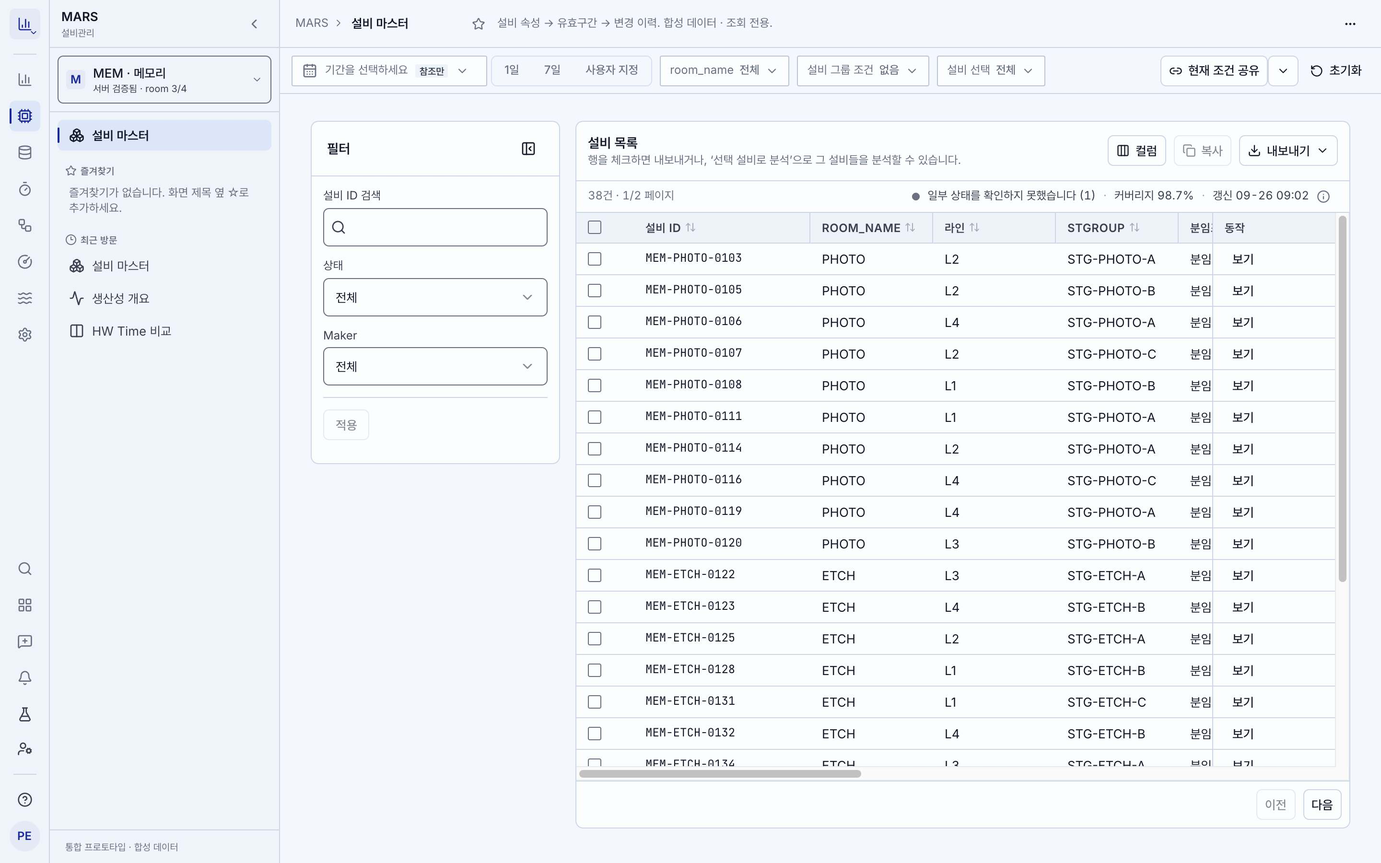
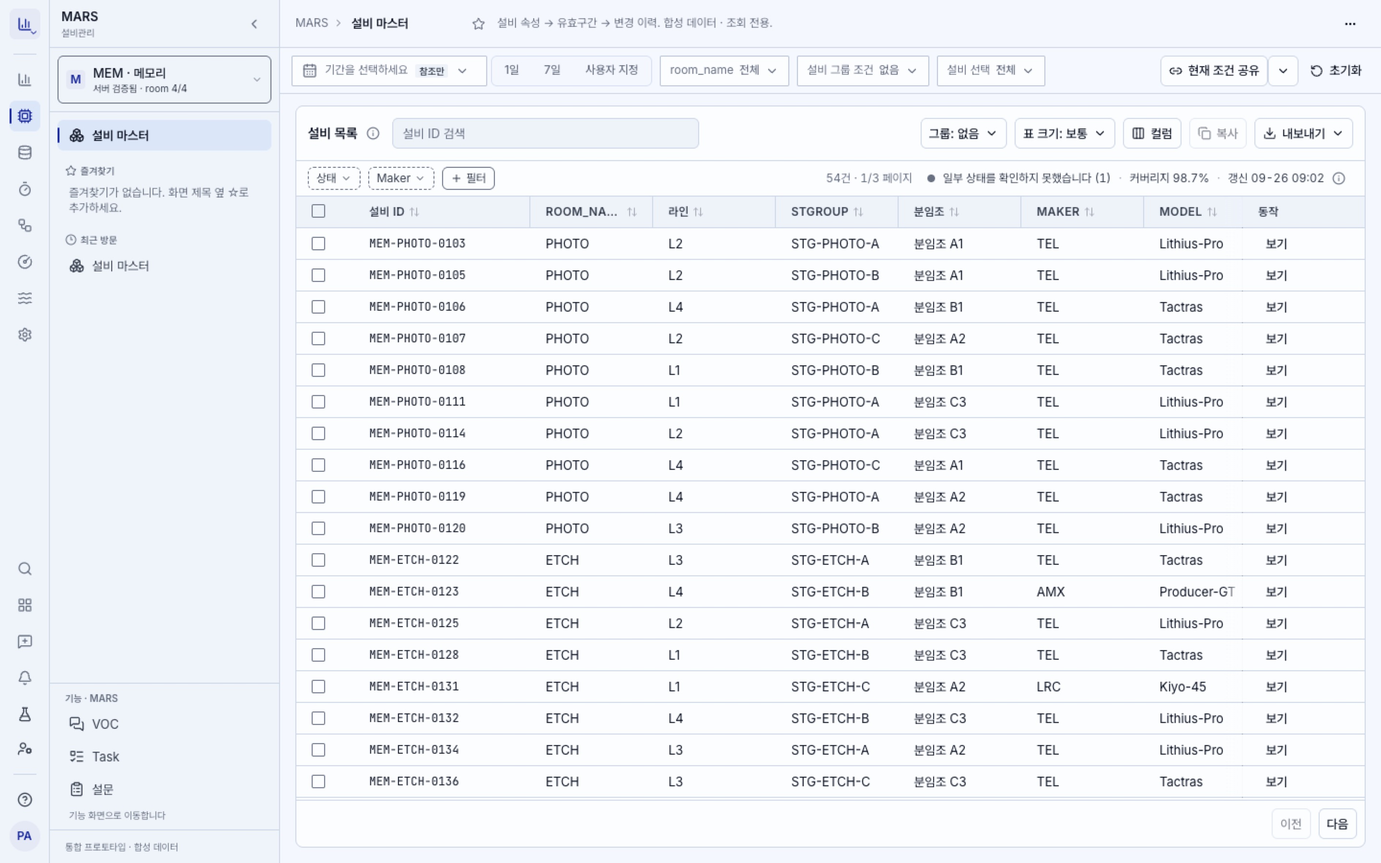
chore(release): prepare v0.22.0 and sdk-v0.26.0 (#1236)
* chore(release): prepare v0.22.0 and sdk-v0.26.0

Claude-Session: https://claude.ai/code/session_01HJStpnGJRqw2uwwzWGGT6d

* docs(site): 관리 화면 설명을 레일 없는 구조로, 최신 버전 v0.22.0·sdk-v0.26.0 (doc audit D3)

Claude-Session: https://claude.ai/code/session_01HJStpnGJRqw2uwwzWGGT6d

* docs(release): 보드 진입 링크를 v0.22.0·sdk-v0.26.0으로 (doc audit D5)

Claude-Session: https://claude.ai/code/session_01HJStpnGJRqw2uwwzWGGT6d

* docs(site): L17 금지 용어 '레일' → '왼쪽 필터 칸'

Claude-Session: https://claude.ai/code/session_01HJStpnGJRqw2uwwzWGGT6d

---------

diff --git a/site/index.html b/site/index.html
@@ -242,7 +242,7 @@
     <h3>페이지 유형 · 같은 틀, 다른 메뉴</h3>
     <div class="tile-row">
       <figure class="shot-figure"><span class="shot-frame"><button type="button" class="shot-zoom" data-shot-open="assets/layouts/layouts-overview.jpg" aria-haspopup="dialog" aria-label="Overview 유형 생산성 개요 크게 보기"><img src="assets/layouts/layouts-overview.jpg" loading="lazy" width="2880" height="1800" alt="MARS 생산성 개요. 조건 바 아래 네 지표 요약 카드와 Job 처리량 추세 막대 차트가 있습니다."></button></span><figcaption><b>Overview</b> · MARS 생산성 개요 · 지표 요약과 추세</figcaption></figure>
-      <figure class="shot-figure"><span class="shot-frame"><button type="button" class="shot-zoom" data-shot-open="assets/layouts/layouts-management.jpg" aria-haspopup="dialog" aria-label="Management 유형 설비 마스터 크게 보기"><img src="assets/layouts/layouts-management.jpg" loading="lazy" width="2880" height="1800" alt="MARS 설비 마스터. 왼쪽 필터 열과 오른쪽 설비 목록 표가 나란히 있습니다."></button></span><figcaption><b>Management</b> · MARS 설비 마스터 · 필터 열과 목록</figcaption></figure>
+      <figure class="shot-figure"><span class="shot-frame"><button type="button" class="shot-zoom" data-shot-open="assets/layouts/layouts-management.jpg" aria-haspopup="dialog" aria-label="Management 유형 설비 마스터 크게 보기"><img src="assets/layouts/layouts-management.jpg" loading="lazy" width="2880" height="1800" alt="MARS 설비 마스터. 표 위에 검색과 필터 조건, 아래에 설비 목록이 있습니다."></button></span><figcaption><b>Management</b> · MARS 설비 마스터 · 필터와 목록</figcaption></figure>
       <figure class="shot-figure"><span class="shot-frame"><button type="button" class="shot-zoom" data-shot-open="assets/layouts/layouts-catalog.jpg" aria-haspopup="dialog" aria-label="Catalog 유형 지표 카탈로그 크게 보기"><img src="assets/layouts/layouts-catalog.jpg" loading="lazy" width="2880" height="1800" alt="BRAVO 지표 카탈로그. 페이지 필터 아래 지표 이름·도메인·grain 목록 표가 있습니다."></button></span><figcaption><b>Catalog</b> · BRAVO 지표 카탈로그 · 페이지 필터와 목록</figcaption></figure>
     </div>
     <p class="cap-line">페이지 유형 5종 · Analysis Workspace는 위 HW Time 비교 · Workflow는 공통 부품 조립 · 전용 레이아웃 부품은 Management·Analysis 2종 · <a class="source-ref" href="#source-L19">L19</a> · <a class="source-ref" href="#source-L17">L17</a> · <a class="source-ref" href="#source-L148">L148</a></p>
@@ -863,7 +863,7 @@
               <h3>화면 유형 다섯 가지로 시작합니다.</h3>
               <p>
                 Overview·Analysis Workspace·Management·Catalog·Workflow. manifest의 화면 유형이 생성기 뼈대를 정하고,
-                관리 화면(필터 열 + 표)과 분석 화면(KPI 띠·차트 2열·분해 표)은 공통 레이아웃 컴포넌트로, 드릴다운은
+                관리 화면(툴바 한 줄 + 필터·결과 줄 + 표)과 분석 화면(KPI 띠·차트 2열·분해 표)은 공통 레이아웃 컴포넌트로, 드릴다운은
                 DrillLayout으로 제공합니다. 셸은 시스템 레일 52px·사이드바 240px·머리 50px입니다.
               </p>
               <p>이 화면에서: 시스템 레일·사이드바·머리 + KPI 카드·차트·분해 표 자리</p>
@@ -1293,13 +1293,14 @@
                 >
                   <span class="preview" aria-hidden="true"
                     ><span class="preview-div wire-management"
-                      ><span class="preview-div">260px 필터</span><span class="preview-div">표</span
+                      ><span class="preview-div">툴바</span><span class="preview-div">필터·결과 줄</span
+                      ><span class="preview-div">표</span
                       ><span class="preview-div">상세</span></span
                     ></span
                   ><span class="card-name"><code>ManagementLayout</code> <span class="more">+1</span></span
                   ><span class="caption">@ap/components</span
                   ><span class="card-gain"
-                    >자기 폭 960px 이상이면 필터 열, 좁으면 팝오버, 접힘 기억·포커스 이동</span
+                    >표 위 툴바 한 줄(제목·검색·표 컨트롤)과 필터·결과 줄 하나, 상세 슬롯</span
                   ></button
                 ><button
                   type="button"
@@ -1789,7 +1790,7 @@
             </article>
             <article id="detail-C12" class="component-detail" data-detail="C12">
               <h3 tabindex="-1"><code>ManagementLayout</code> · <code>ManagementLayoutProps</code></h3>
-              <p><b>받는 것</b> 자기 폭 960px 이상이면 필터 열 · 좁으면 팝오버 · 접힘 기억·포커스 이동</p>
+              <p><b>받는 것</b> 표 위 툴바 한 줄(제목·검색·표 컨트롤) · 필터·결과 줄 하나 · 상세 슬롯</p>
               <p><b>화면이 할 일</b> 슬롯 내용</p>
               <p class="caption">
                 원본:
@@ -3237,9 +3238,9 @@ export type ModuleHost = {
           <summary>콘텐츠 원장 L01–L149</summary>
           <div id="source-L01">
             <h3>L01</h3>
-            <a href="https://github.com/hjung3113/analytics-platform/blob/main/.planning/README.md">공개 원본 보기</a>
-            <p>최신 앱 릴리스 v0.15.0(2026-10-21), 최신 SDK 릴리스 sdk-v0.12.0(2026-10-23), .planning/README.md와 GitHub Release 기준</p>
-            <p class="caption"><code>.planning/README.md</code> 「끝난 것」, GitHub Release <code>sdk-v0.12.0</code> · 2026-10-23 최신 릴리스로 갱신</p>
+            <a href="https://github.com/hjung3113/analytics-platform/releases/tag/v0.22.0">공개 원본 보기</a>
+            <p>최신 앱 릴리스 v0.22.0(2026-11-01), 최신 SDK 릴리스 sdk-v0.26.0(2026-11-01), .planning/README.md와 GitHub Release 기준. SDK 릴리스: <a href="https://github.com/hjung3113/analytics-platform/releases/tag/sdk-v0.26.0">sdk-v0.26.0</a></p>
+            <p class="caption"><code>.planning/README.md</code> 「끝난 것」, GitHub Release <code>v0.22.0</code>·<code>sdk-v0.26.0</code> · 2026-11-01 최신 릴리스로 갱신</p>
           </div>
           <div id="source-L02">
             <h3>L02</h3>
@@ -3247,7 +3248,7 @@ export type ModuleHost = {
               >공개 원본 보기</a
             >
             <p>
-              <code>@ap/components</code> 기본 진입점의 공개 React 컴포넌트 29개(<code>sdk-v0.12.0</code> 기준, 2026-10-23 갱신; PanelWorkspace 추가, 도킹 진입점 <code>@ap/components/dock</code>에 DockLayout·WorkspaceCommandsHost 2개는 L136): AnalysisChart, AnalysisChartFrame, EChart, PlatformDataTable, PageFilterBar, SegmentedRadio, DetailDrawer, Field, AuditTimeline, DataTrustIndicator, PlatformPage, Panel, StatCard, QueryView, OutcomeView, StateMessage, LoadingBlock, ManagementLayout, AnalysisLayout, DrillLayout, DrillPath, ReturnLink, RowAction, TableUrlWarning, FilterUrlWarning, LegendTree, LaneTimeline, QueryBarExtensionsProvider, PanelWorkspace
+              <code>@ap/components</code> 기본 진입점의 공개 React 컴포넌트 28개(<code>sdk-v0.12.0</code> 기준, 2026-10-23 갱신; PanelWorkspace 추가, 2026-11-01 <code>sdk-v0.26.0</code>에서 FilterUrlWarning 제거, 도킹 진입점 <code>@ap/components/dock</code>에 DockLayout·WorkspaceCommandsHost 2개는 L136): AnalysisChart, AnalysisChartFrame, EChart, PlatformDataTable, PageFilterBar, SegmentedRadio, DetailDrawer, Field, AuditTimeline, DataTrustIndicator, PlatformPage, Panel, StatCard, QueryView, OutcomeView, StateMessage, LoadingBlock, ManagementLayout, AnalysisLayout, DrillLayout, DrillPath, ReturnLink, RowAction, TableUrlWarning, LegendTree, LaneTimeline, QueryBarExtensionsProvider, PanelWorkspace
             </p>
             <p class="caption">
               <code>packages/sdk/components/src/index.ts</code> + 각 파일의 <code>export function [A-Z]…</code>(D1이 셈) ·
@@ -3426,10 +3427,11 @@ export type ModuleHost = {
               >공개 원본 보기</a
             >
             <p>
-              ManagementLayout: 자기 폭 960px 이상 260px 필터 열, 좁으면 팝오버. AnalysisLayout: KPI 띠·차트(960px
-              이상·펼친 차트 2개 이상이면 2열)·분해 표, 단위별 접기
+              ManagementLayout: 왼쪽 필터 칸 없이 표 툴바 한 줄(제목·검색·표 컨트롤)과 그 아래 필터 줄 하나(2026-11-01,
+              sdk-v0.26.0, ADR-0105). AnalysisLayout: KPI 띠·차트(960px 이상·펼친 차트 2개 이상이면 2열)·분해 표,
+              단위별 접기
             </p>
-            <p class="caption">플랫폼 UI 계약 §12.6, ADR-0022 · —</p>
+            <p class="caption">플랫폼 UI 계약 §12.6, ADR-0022·ADR-0105 · —</p>
           </div>
           <div id="source-L18">
             <h3>L18</h3>

diff --git a/tooling/gen-menu/src/generate.test.ts b/tooling/gen-menu/src/generate.test.ts
@@ -355,7 +355,7 @@ it('generates version metadata and a matching changelog', () => {
   const files = renderFiles(INPUTS, '2026-01-02');
   const pkg = JSON.parse(files.find(f => f.relPath === 'package.json')!.content) as { version: string; ap: { sdk: string } };
   expect(pkg.version).toBe('0.1.0');
-  expect(pkg.ap.sdk).toBe('>=0.25.0 <0.26.0');
+  expect(pkg.ap.sdk).toBe('>=0.26.0 <0.27.0');
   expect(files.find(f => f.relPath === 'CHANGELOG.md')?.content).toMatch(/^# @ap\/menu-gen-probe 변경 기록[\s\S]*^## 0\.1\.0 — 2026-01-02$/m);
 });
 

diff --git a/tooling/gen-menu/src/templates.ts b/tooling/gen-menu/src/templates.ts
@@ -27,7 +27,7 @@ export type MenuInputs = {
  * it, because the server re-validates data permission per request (#47). Kept in one place so the
  * two never drift apart.
  */
-export const SDK_RANGE = '>=0.25.0 <0.26.0';
+export const SDK_RANGE = '>=0.26.0 <0.27.0';
 
 export const SCAFFOLD_PERMISSION = 'platform:view';
 

diff --git a/docs/integration/sdk-git-tag-consumption.md b/docs/integration/sdk-git-tag-consumption.md
@@ -29,10 +29,10 @@
 
 | 버전 | 패키지 | 바뀐 공개 API | 이전 방법 |
 | --- | --- | --- | --- |
-| `sdk-v0.26.0` (다음 릴리스, #556b) | contracts, components | Additive: `ColumnFilterSpec`, `ColumnFilter`, `TableQuery` (`PageQuery & { filters?: ColumnFilter[] }`) and pure `filterRows(rows, filters, accessor?)` (`@ap/contracts`); `PlatformColumn.filter?: ColumnFilterSpec`, `loadPage` typed `(query: TableQuery, signal)` and an optional top-level `filters?: ColumnFilter[]` on the `exportRows` request (`@ap/components`); snapshots `contracts.root.api.txt`, `components.root.api.txt`. `PageQuery` is unchanged and `filters` is sent only when a column filter is active. #556c adds (`@ap/components`): `TableExportRequest` (the `exportRows` request, now with a third scope `{ kind: 'all'; excludedIds }`), `TableSelection` (`{ kind: 'ids'; ids } \| { kind: 'all'; excludedIds; total }`), `exportScopeIds(scope)`, and the optional props `selectAllResults?: boolean` and `bulkSelectionActions?: (selection: TableSelection) => ReactNode` on `PlatformDataTable`. #556d adds: `TableQuery.groupBy?: string` (one level), `PageGroup` (`{ key; label; count; subtotals?; continued? }`), `GroupedPageResult<T>` (`PageResult<T> & { groups?: PageGroup[] }`), `EMPTY_GROUP_LABEL` and pure `groupPage(rows, { groupBy, sorting, subtotalColumns, accessor, page, pageSize })` (`@ap/contracts`); `PlatformColumn.groupable?` / `subtotal?` and `loadPage` typed to return `GroupedPageResult<T>` (`@ap/components`; `GroupedPageResult`·`PageGroup` re-exported); snapshots as above. `PageResult` is unchanged and `groupBy` is sent only when a group is chosen. | None. Existing `PageQuery` loaders and tables without `filter` keep compiling and rendering. To opt in: declare `filter` on columns, add `filters` to the endpoint params and `paramKeys`, and apply the filters on the server (`filterRows` for mocks). **Type widening:** `exportRows` is now typed `(request: TableExportRequest, signal)`; a consumer that typed its callback with the old inline request type (`scope: { kind: 'selected' } \| { kind: 'filtered' }`) must switch to `TableExportRequest` and read the scope with `exportScopeIds` (handle or refuse `all-except`). Tables that do not set `selectAllResults` never receive the `all` scope. Tables with no `groupable` column never send `groupBy`, and a response without `groups` renders flat. To opt in to groups: declare `groupable` (and `subtotal` for `sum` columns), add `groupBy` to the page endpoint's params and `paramKeys`, and answer rows ordered by group plus whole-result `groups` (`groupPage` for mocks); export stays flat. |
-| `sdk-v0.26.0` (다음 릴리스, #1217 노드 a1–e2) | contracts, kernel, components, ui | Additive (opt-in; unused = unchanged behaviour): `@ap/contracts` column-filter vocabulary (`ColumnFilter`/`ColumnFilterOp`/`ColumnFilterSpec` operator union growth, `TEXT_OPS`…`INSTANT_OPS`, `FILTER_OPS_BY_KIND`, `FilterRowsOptions`, `FilterValidation`, `validateFilters`, `betweenOrdered`), URL codec (`encodeFilterParam(s)`, `parseFilterParams`, `filterParamLimit`, `FILTER_PARAM_LIMITS`, `FilterParamRejection`, `FilterParamsResult`), `parseQuery(…, options?: { repeated })`, `MenuMeta.repeatedPageKeys`/`hiddenPageKeys` (`ModuleHost` follows), `isIsoInstant`; `@ap/kernel` `PlatformLocation.push/replace(…, state?)` and optional `readState`, `HostPlatform.appliedUrl`, `MenuPlatform.pageParams`, `LinkOptions.page` values may be `readonly string[]`, `withPaneContext` also reads `repeatedPageKeys`; `@ap/components` `TableFilterOption`, `TableFilterField`, `TableFilterProblem`, `TableFilterRead`, `LegacyFilterKey`, `FilterValueCheck`, `InstantEntry`, `LocalFieldFailure`/`LocalFieldResult`, `instantToLocalField`/`localFieldToInstant`, `FILTER_OP_LABELS`, `TableUrlWarningCause`, `TableUrlState.filters`/`validate`, `useTableUrlState(…, { filters })`, `useTableUrlWarning(…, filters)` (new return fields `cause`, `filterRead`, `recoverKeys`), `TableUrlWarning` props `recoverKeys` and `cause`, `PlatformColumn.filter`/`filterEntry`/`filterLabel`/`filterPinned` (`boolean \| number`), `PlatformDataTableProps.filterFields`/`filterKey` optional (default `''`); `@ap/ui` `InputProps.inputSize` (`'default' \| 'toolbar'`), `TooltipContentProps.portal`. **Type widening**: `ColumnFilter` and `ColumnFilterOp` grew, so a consumer that handled `op` with an exhaustive `switch` must handle or reject the new operators; a host that implements `PlatformLocation` itself still compiles when it ignores `state`, but hidden page state is then not restored. Snapshots `contracts.root`, `kernel.root`, `kernel.host`, `components.root`, `ui.root`. | none needed for unused opt-ins. Exhaustive `op` switches: add the new cases or a default. Own `PlatformLocation`: store `state` in `push`/`replace` and return it from `readState`. |
-| `sdk-v0.26.0` (다음 릴리스, #1217 노드 f) | components, kernel | **Breaking**: remove `useManagementFilters`, `FilterDraft`, `ManagementFiltersOptions`, `FilterUrlWarning` (`useFilterDraft` and `FilterApplyButton` were never public); `ManagementLayoutProps` loses `filter`, `activeFilterCount`, `pendingFilterCount` and `search`, and `table` is now a plain `ReactNode` (was `(filterSlot, search?) => ReactNode`); `PlatformDataTableProps` loses the rail-button slot `filters`; `TableUrlWarning`'s `filters` prop is renamed `search` and `PageKeyWarning` loses `filters`; `PageFilterBar` loses `orientation` (row layout only, unchanged). `@ap/kernel` `dict` loses the unused keys `collapseFilters`, `expandFilters`, `appliedFilterCount`, `unappliedFilterMarker`, `unappliedFilterRail`, `filterStateDescription`, `applyWithCount` (`Key` narrows accordingly); snapshots `components.root.api.txt`, `kernel.root.api.txt`. | `ManagementLayout`: drop `filter` and the count props, change `table={(filterSlot, search) => …}` to `table={<PlatformDataTable search={…} … />}` (the quick search field goes on the table's own `search` prop) and use the table's column filters (ADR-0105). `PlatformDataTable filters`: delete the prop (no replacement; the rail button is gone). `TableUrlWarning filters={x}`: pass `search={x}`. `PageKeyWarning filters`: delete the prop. `useManagementFilters`: keep the page's own `setPage` patch. `FilterUrlWarning`: use `PageKeyWarning` (same title and frame). `PageFilterBar orientation="column"`: delete the prop. |
-| `sdk-v0.26.0` (다음 릴리스, #1217 요약) | contracts, kernel, components, ui | Additive; unused = unchanged behaviour, except the density default below. **Spec fields** (`@ap/contracts` `ColumnFilterSpec`): `ops`, `requires`, text `caseSensitive`, enum `multiple`, new kind `instant` (`INSTANT_OPS`, `InstantOp`); `@ap/contract-schemas` registers the `columnFilter` and `columnFilterSpec` schemas. **Contracts/Kernel:** optional `ModuleHost.pages?(key): string[]`; `@ap/kernel` `pageParams(key): string[]` and `setPage` accepts array values (`[]`/`null` remove the key; two or more values on a key not declared in `repeatedPageKeys` throw `RangeError`); repeated and hidden page state is carried by the shared link, saved menu views and history restore. **Components:** `PlatformDataTableProps.filterFields` (non-column filterable fields: `TableFilterField`), column `filter`/`filterPinned`/`filterLabel`/`filterEntry`, `useTableUrlState(…, { filters })` and `useTableUrlWarning(…, filters)` with `TableUrlState.filters`, warning `cause`/`recoverKeys`, `instantToLocalField`/`localFieldToInstant`; the table gets a one-line toolbar, a result/filter line and a per-user table size (작게/보통/크게; stored as a user preference, no new public API); the column preference also stores column order (#556a). **ui:** `Input.inputSize`, `TooltipContent.portal`. Detail rules: Components §15, Kernel §6, Layout §12. | **Default behaviour change:** every `PlatformPage` now defaults to `density="compact"` (content side inset 16px instead of 32px). Other changes: none needed for unused opt-ins. | A consumer that wants the previous margins sets `density="comfortable"` on `PlatformPage`. To share filters, a menu declares `repeatedPageKeys`/`hiddenPageKeys` and its filter specs, then passes `{ filters }` to `useTableUrlState`. |
+| [`sdk-v0.26.0`](https://github.com/hjung3113/analytics-platform/releases/tag/sdk-v0.26.0) (#556b) | contracts, components | Additive: `ColumnFilterSpec`, `ColumnFilter`, `TableQuery` (`PageQuery & { filters?: ColumnFilter[] }`) and pure `filterRows(rows, filters, accessor?)` (`@ap/contracts`); `PlatformColumn.filter?: ColumnFilterSpec`, `loadPage` typed `(query: TableQuery, signal)` and an optional top-level `filters?: ColumnFilter[]` on the `exportRows` request (`@ap/components`); snapshots `contracts.root.api.txt`, `components.root.api.txt`. `PageQuery` is unchanged and `filters` is sent only when a column filter is active. #556c adds (`@ap/components`): `TableExportRequest` (the `exportRows` request, now with a third scope `{ kind: 'all'; excludedIds }`), `TableSelection` (`{ kind: 'ids'; ids } \| { kind: 'all'; excludedIds; total }`), `exportScopeIds(scope)`, and the optional props `selectAllResults?: boolean` and `bulkSelectionActions?: (selection: TableSelection) => ReactNode` on `PlatformDataTable`. #556d adds: `TableQuery.groupBy?: string` (one level), `PageGroup` (`{ key; label; count; subtotals?; continued? }`), `GroupedPageResult<T>` (`PageResult<T> & { groups?: PageGroup[] }`), `EMPTY_GROUP_LABEL` and pure `groupPage(rows, { groupBy, sorting, subtotalColumns, accessor, page, pageSize })` (`@ap/contracts`); `PlatformColumn.groupable?` / `subtotal?` and `loadPage` typed to return `GroupedPageResult<T>` (`@ap/components`; `GroupedPageResult`·`PageGroup` re-exported); snapshots as above. `PageResult` is unchanged and `groupBy` is sent only when a group is chosen. | None. Existing `PageQuery` loaders and tables without `filter` keep compiling and rendering. To opt in: declare `filter` on columns, add `filters` to the endpoint params and `paramKeys`, and apply the filters on the server (`filterRows` for mocks). **Type widening:** `exportRows` is now typed `(request: TableExportRequest, signal)`; a consumer that typed its callback with the old inline request type (`scope: { kind: 'selected' } \| { kind: 'filtered' }`) must switch to `TableExportRequest` and read the scope with `exportScopeIds` (handle or refuse `all-except`). Tables that do not set `selectAllResults` never receive the `all` scope. Tables with no `groupable` column never send `groupBy`, and a response without `groups` renders flat. To opt in to groups: declare `groupable` (and `subtotal` for `sum` columns), add `groupBy` to the page endpoint's params and `paramKeys`, and answer rows ordered by group plus whole-result `groups` (`groupPage` for mocks); export stays flat. |
+| [`sdk-v0.26.0`](https://github.com/hjung3113/analytics-platform/releases/tag/sdk-v0.26.0) (#1217 노드 a1–e2) | contracts, kernel, components, ui | Additive (opt-in; unused = unchanged behaviour): `@ap/contracts` column-filter vocabulary (`ColumnFilter`/`ColumnFilterOp`/`ColumnFilterSpec` operator union growth, `TEXT_OPS`…`INSTANT_OPS`, `FILTER_OPS_BY_KIND`, `FilterRowsOptions`, `FilterValidation`, `validateFilters`, `betweenOrdered`), URL codec (`encodeFilterParam(s)`, `parseFilterParams`, `filterParamLimit`, `FILTER_PARAM_LIMITS`, `FilterParamRejection`, `FilterParamsResult`), `parseQuery(…, options?: { repeated })`, `MenuMeta.repeatedPageKeys`/`hiddenPageKeys` (`ModuleHost` follows), `isIsoInstant`; `@ap/kernel` `PlatformLocation.push/replace(…, state?)` and optional `readState`, `HostPlatform.appliedUrl`, `MenuPlatform.pageParams`, `LinkOptions.page` values may be `readonly string[]`, `withPaneContext` also reads `repeatedPageKeys`; `@ap/components` `TableFilterOption`, `TableFilterField`, `TableFilterProblem`, `TableFilterRead`, `LegacyFilterKey`, `FilterValueCheck`, `InstantEntry`, `LocalFieldFailure`/`LocalFieldResult`, `instantToLocalField`/`localFieldToInstant`, `FILTER_OP_LABELS`, `TableUrlWarningCause`, `TableUrlState.filters`/`validate`, `useTableUrlState(…, { filters })`, `useTableUrlWarning(…, filters)` (new return fields `cause`, `filterRead`, `recoverKeys`), `TableUrlWarning` props `recoverKeys` and `cause`, `PlatformColumn.filter`/`filterEntry`/`filterLabel`/`filterPinned` (`boolean \| number`), `PlatformDataTableProps.filterFields`/`filterKey` optional (default `''`); `@ap/ui` `InputProps.inputSize` (`'default' \| 'toolbar'`), `TooltipContentProps.portal`. **Type widening**: `ColumnFilter` and `ColumnFilterOp` grew, so a consumer that handled `op` with an exhaustive `switch` must handle or reject the new operators; a host that implements `PlatformLocation` itself still compiles when it ignores `state`, but hidden page state is then not restored. Snapshots `contracts.root`, `kernel.root`, `kernel.host`, `components.root`, `ui.root`. | none needed for unused opt-ins. Exhaustive `op` switches: add the new cases or a default. Own `PlatformLocation`: store `state` in `push`/`replace` and return it from `readState`. |
+| [`sdk-v0.26.0`](https://github.com/hjung3113/analytics-platform/releases/tag/sdk-v0.26.0) (#1217 노드 f) | components, kernel | **Breaking**: remove `useManagementFilters`, `FilterDraft`, `ManagementFiltersOptions`, `FilterUrlWarning` (`useFilterDraft` and `FilterApplyButton` were never public); `ManagementLayoutProps` loses `filter`, `activeFilterCount`, `pendingFilterCount` and `search`, and `table` is now a plain `ReactNode` (was `(filterSlot, search?) => ReactNode`); `PlatformDataTableProps` loses the rail-button slot `filters`; `TableUrlWarning`'s `filters` prop is renamed `search` and `PageKeyWarning` loses `filters`; `PageFilterBar` loses `orientation` (row layout only, unchanged). `@ap/kernel` `dict` loses the unused keys `collapseFilters`, `expandFilters`, `appliedFilterCount`, `unappliedFilterMarker`, `unappliedFilterRail`, `filterStateDescription`, `applyWithCount` (`Key` narrows accordingly); snapshots `components.root.api.txt`, `kernel.root.api.txt`. | `ManagementLayout`: drop `filter` and the count props, change `table={(filterSlot, search) => …}` to `table={<PlatformDataTable search={…} … />}` (the quick search field goes on the table's own `search` prop) and use the table's column filters (ADR-0105). `PlatformDataTable filters`: delete the prop (no replacement; the rail button is gone). `TableUrlWarning filters={x}`: pass `search={x}`. `PageKeyWarning filters`: delete the prop. `useManagementFilters`: keep the page's own `setPage` patch. `FilterUrlWarning`: use `PageKeyWarning` (same title and frame). `PageFilterBar orientation="column"`: delete the prop. |
+| [`sdk-v0.26.0`](https://github.com/hjung3113/analytics-platform/releases/tag/sdk-v0.26.0) (#1217 요약) | contracts, kernel, components, ui | Additive; unused = unchanged behaviour, except the density default below. **Spec fields** (`@ap/contracts` `ColumnFilterSpec`): `ops`, `requires`, text `caseSensitive`, enum `multiple`, new kind `instant` (`INSTANT_OPS`, `InstantOp`); `@ap/contract-schemas` registers the `columnFilter` and `columnFilterSpec` schemas. **Contracts/Kernel:** optional `ModuleHost.pages?(key): string[]`; `@ap/kernel` `pageParams(key): string[]` and `setPage` accepts array values (`[]`/`null` remove the key; two or more values on a key not declared in `repeatedPageKeys` throw `RangeError`); repeated and hidden page state is carried by the shared link, saved menu views and history restore. **Components:** `PlatformDataTableProps.filterFields` (non-column filterable fields: `TableFilterField`), column `filter`/`filterPinned`/`filterLabel`/`filterEntry`, `useTableUrlState(…, { filters })` and `useTableUrlWarning(…, filters)` with `TableUrlState.filters`, warning `cause`/`recoverKeys`, `instantToLocalField`/`localFieldToInstant`; the table gets a one-line toolbar, a result/filter line and a per-user table size (작게/보통/크게; stored as a user preference, no new public API); the column preference also stores column order (#556a). **ui:** `Input.inputSize`, `TooltipContent.portal`. Detail rules: Components §15, Kernel §6, Layout §12. | **Default behaviour change:** every `PlatformPage` now defaults to `density="compact"` (content side inset 16px instead of 32px). Other changes: none needed for unused opt-ins. | A consumer that wants the previous margins sets `density="comfortable"` on `PlatformPage`. To share filters, a menu declares `repeatedPageKeys`/`hiddenPageKeys` and its filter specs, then passes `{ filters }` to `useTableUrlState`. |
 | [`sdk-v0.25.0`](https://github.com/hjung3113/analytics-platform/releases/tag/sdk-v0.25.0) (#1190) | ui | Additive optional `TabsList` props `overflow?: 'scroll' \| 'menu'` (default `'scroll'`, today's behaviour) and `moreLabel?: string` (default `더보기`); snapshot `tooling/sdk/api/ui.root.api.txt`. `overflow="menu"` moves the tabs that do not fit into a trailing `더보기` menu after the last visible tab (selected tab always reachable); the container must give the list a definite width (a flex row: `min-w-0 flex-1`). | None. Non-breaking; menus opt in, passing their own `moreLabel` text. |
 | [`sdk-v0.24.0`](https://github.com/hjung3113/analytics-platform/releases/tag/sdk-v0.24.0) (#1169) | ui | `DialogContent`, `DialogContentBare` and `AlertDialogContent` return focus to the element that opened a trigger-less dialog when it closes (unless the consumer's `onCloseAutoFocus` calls `preventDefault`); no API change. | None. Hand-written focus-return code for trigger-less dialogs can be removed. |
 | [`sdk-v0.24.0`](https://github.com/hjung3113/analytics-platform/releases/tag/sdk-v0.24.0) (#1175) | components | `PlatformDataTable` registers its error/empty result with the page `OutcomeScope` (widget name = `ariaLabel`): with a sibling widget on the same response it shows the compact grouped state under one banner; alone or without a scope it keeps the full state. No API change. | None. |

diff --git a/.planning/README.md b/.planning/README.md
@@ -1,6 +1,6 @@
 # 남은 일 한눈에 보기
 
-> 마지막 갱신 2026-11-01(v0.21.3·sdk-v0.25.0 발행). 원본은 GitHub 이슈·마일스톤이고 이 보드는 그 요약이다. 이슈가 닫히거나 상태가 바뀌면 같은 PR에서 해당 줄을 고친다. 물어 와야 할 질문과 미결 범위는 [inputs.md](inputs.md), 이슈로 올리지 않은 아이디어는 [backlog.md](backlog.md).
+> 마지막 갱신 2026-11-01(v0.22.0·sdk-v0.26.0 발행). 원본은 GitHub 이슈·마일스톤이고 이 보드는 그 요약이다. 이슈가 닫히거나 상태가 바뀌면 같은 PR에서 해당 줄을 고친다. 물어 와야 할 질문과 미결 범위는 [inputs.md](inputs.md), 이슈로 올리지 않은 아이디어는 [backlog.md](backlog.md).
 
 ## 지금 어디까지
 
@@ -18,7 +18,7 @@
 
 ## 다음 할 일
 
-다음 세션은 여기서 시작한다. 갈래마다 지금 열린 일만 적는다. 이슈별 흐름은 `lane:*` 라벨이고, 세션 분담·팀장·릴리스 담당은 [`LANES.md`](../.agents/conductor/LANES.md)다(2026-10-26). 끝난 일의 기록은 닫힌 이슈·ADR·[릴리스](https://github.com/hjung3113/analytics-platform/releases)(앱 [`v0.21.3`](https://github.com/hjung3113/analytics-platform/releases/tag/v0.21.3), SDK [`sdk-v0.25.0`](https://github.com/hjung3113/analytics-platform/releases/tag/sdk-v0.25.0))에 있다.
+다음 세션은 여기서 시작한다. 갈래마다 지금 열린 일만 적는다. 이슈별 흐름은 `lane:*` 라벨이고, 세션 분담·팀장·릴리스 담당은 [`LANES.md`](../.agents/conductor/LANES.md)다(2026-10-26). 끝난 일의 기록은 닫힌 이슈·ADR·[릴리스](https://github.com/hjung3113/analytics-platform/releases)(앱 [`v0.22.0`](https://github.com/hjung3113/analytics-platform/releases/tag/v0.22.0), SDK [`sdk-v0.26.0`](https://github.com/hjung3113/analytics-platform/releases/tag/sdk-v0.26.0))에 있다.
 
 **`v0.19.0`·`sdk-v0.19.0`(2026-10-28, 완성도).** 다음을 끝냈다: occurrence anchor를 파서 RecordSequence로 바꾸고 시작 시각을 분리 [#1007](https://github.com/hjung3113/analytics-platform/issues/1007)(ADR-0094), 원천 로직 버전 혼재 표시 [#1008](https://github.com/hjung3113/analytics-platform/issues/1008)(`Trust.sourceLogicVersions`, `DataTrustIndicator`), 예약 루트 앱 주입·저장된 뷰 테스트 대역 [#1050](https://github.com/hjung3113/analytics-platform/issues/1050)(`createRegistry({ reservedRoots })`, `@ap/kernel/testing`), FeedbackOps `Surveys`·`관리자` 그룹을 플랫폼으로 옮기고 `FeedbackOps 전체` 링크 제거 [#764](https://github.com/hjung3113/analytics-platform/issues/764), 테스트 안정성 [#741](https://github.com/hjung3113/analytics-platform/issues/741) [#723](https://github.com/hjung3113/analytics-platform/issues/723), EV 새 릴리스 반영 [#1058](https://github.com/hjung3113/analytics-platform/issues/1058), 생성 메뉴 테스트 경로 기대값 [#1073](https://github.com/hjung3113/analytics-platform/issues/1073), 운영 규칙 나머지 [#1040](https://github.com/hjung3113/analytics-platform/issues/1040)(흐름 지시서·병합 사전 점검), 마감 정리(죽은 코드·메뉴 `ap.sdk` 범위 0.19, 품질 리뷰 Q1·Q2·Q4).
 
@@ -37,7 +37,7 @@
 
 **`v0.21.3`·`sdk-v0.25.0`(2026-11-01, 남은 결함·탭 넘침).** 다음을 끝냈다: 요청 한도 초과(429)를 「서버에 연결할 수 없습니다」와 다른 화면으로 [#1179](https://github.com/hjung3113/analytics-platform/issues/1179)(부트스트랩 `throttled` 결과, `Retry-After` 초 안내), 실서버 미리보기 도구를 플랫폼 조립 real 모드로 [#1178](https://github.com/hjung3113/analytics-platform/issues/1178), v0.21.2 마감 리뷰 정리 [#1191](https://github.com/hjung3113/analytics-platform/issues/1191)(밀도 여백 한 곳, 표 시각 클래스 단언 삭제 — 소유자 결정, lazy 대기 공용 상수), 차트 카탈로그 탭 넘침 [#1190](https://github.com/hjung3113/analytics-platform/issues/1190)(꼬리표 제거 + `@ap/ui` `TabsList overflow="menu"` — 소유자 선택 ②, 실제 앱 시안 캡처에서). 루트 `AGENTS.md`에 「재사용 여지가 있는 범용 조각은 지금 필요한 메뉴가 없어도 SDK에 넣는다」 규칙(소유자 2026-11-01). 소비자 SDK 범위 `>=0.25.0 <0.26.0`. 보류: 홈·시스템 전환 디자인 [#1189](https://github.com/hjung3113/analytics-platform/issues/1189)는 시안 3안(A 조용한 목록 추천)을 만들었고 소유자가 결정을 미뤘다 — 지금 화면 유지, 시안 기록은 브랜치 `prototype/1189-home-switcher`의 `prototype-records/1189/`.
 
-**표 필터 한 모델 [#1217](https://github.com/hjung3113/analytics-platform/issues/1217) — 완료(2026-11-01, 마지막 노드 f, 발행은 다음 릴리스).** 관리 화면 세 곳(설비 마스터·변경 감사·권한/역할)이 필터 레일 없이 표 위 필터 줄 하나로 동작한다([ADR-0105](../docs/adr/0105-one-table-filter-model.md)). `ManagementLayout`의 `filter` 슬롯·레일, `useManagementFilters`, `PageFilterBar orientation="column"`, `FilterUrlWarning`을 지웠다(`sdk:api` 스냅샷에서 사라짐, 깨지는 변경). 지표 카탈로그·사이클 타임의 행 모드 `PageFilterBar`는 그대로다. 옛 필터 page key 별칭은 한 릴리스 뒤 제거([backlog](backlog.md)).
+**`v0.22.0`·`sdk-v0.26.0`(2026-11-01, 표 고급 기능·표 필터 한 모델).** 표 고급 기능 [#556](https://github.com/hjung3113/analytics-platform/issues/556)(열 순서, 열별 필터, 필터 결과 전체 선택, 서버 행 그룹·소계)과 **표 필터 한 모델 [#1217](https://github.com/hjung3113/analytics-platform/issues/1217)**을 발행했다. SDK는 공개 이름을 지운 breaking 릴리스다(`useManagementFilters`·`FilterUrlWarning` 등, [sdk-git-tag-consumption.md](../docs/integration/sdk-git-tag-consumption.md)). 관리 화면 세 곳(설비 마스터·변경 감사·권한/역할)이 필터 레일 없이 표 위 필터 줄 하나로 동작한다([ADR-0105](../docs/adr/0105-one-table-filter-model.md)). `ManagementLayout`의 `filter` 슬롯·레일, `useManagementFilters`, `PageFilterBar orientation="column"`, `FilterUrlWarning`을 지웠다(`sdk:api` 스냅샷에서 사라짐, 깨지는 변경). 지표 카탈로그·사이클 타임의 행 모드 `PageFilterBar`는 그대로다. 옛 필터 page key 별칭은 한 릴리스 뒤 제거([backlog](backlog.md)).
 
 1. **분석 작업 영역·MARS 이관(M7, Epic #557).** 계약 [ADR-0059](../docs/adr/0059-app-injected-equipment-axes-and-condition.md)·[ADR-0061](../docs/adr/0061-query-draft-applied-address-and-required-gate.md)·[ADR-0067](../docs/adr/0067-dockview-layout-engine-board-v2.md)·[ADR-0077](../docs/adr/0077-workspace-stack-mode-rows-keep-own-height.md). 조건 계약 [#552](https://github.com/hjung3113/analytics-platform/issues/552)는 1·2부가 끝났고 이슈는 열려 있다. 고밀도·다단계 드릴 작업 영역 [#690](https://github.com/hjung3113/analytics-platform/issues/690)은 보류(HW Time 보류, 사용자 2026-10-26 — 비교 메뉴의 드릴 중 위 패널 유지 [#912](https://github.com/hjung3113/analytics-platform/issues/912)는 끝, ADR-0078 보충)(1단계 완료 — [ADR-0078](../docs/adr/0078-hw-time-layout-recipes.md), HW Time 메뉴 4종(단계별·비교·개요·표)과 SDK 조각, 네 메뉴를 한 spec으로 보는 E2E `hw-time.spec.ts`; 두 번째 소비자 [#586](https://github.com/hjung3113/analytics-platform/issues/586)은 이 메뉴들이 소비. 남은 일: 깊이 4 이상 드릴·검색형 패널 전환기·레이아웃 undo/redo·보호 패널은 구현 안 함(다시 볼 조건은 이슈 #690), 구현 안 함 항목은 [backlog](backlog.md)). 분해 분석 #580은 닫혔다(2026-10-25, 1단계 완료) — 2단계 R6/R7/R8과 미룬 항목은 [backlog](backlog.md). 쌓기 기본값 전환과 상호작용 마무리 [#701](https://github.com/hjung3113/analytics-platform/issues/701)(UX-4 시안 컨펌 먼저). 끌기 E2E 3건은 정리됐다(2026-10-26): #705 확대 차트 끌기는 Playwright 문제가 아니라 누름 때 다시 그린 `notMerge`가 inside dataZoom·grid를 다시 만들던 결함(#863), 같은 계열의 #808 Brush 취소는 brush도 병합해 끝(#867), #683 dock 탭은 #685에서 이미 고쳐져 닫음, #723 쌓기 경계는 끄는 도중 엔진이 옛 높이로 줄을 한 프레임 비례 축소하던 제품 결함이라 고쳐 끝(`fromJSON` 앞에 새 총 높이로 `layout`). 임의 다중 시트 Workbook 내보내기 #860은 끝(`useWorkbookExport` — 메뉴가 시트 이름·구조를 선언, 06 §15; 메뉴 소비와 `조회 정보` 도우미는 [backlog](backlog.md)). 표 고급 기능 [#556](https://github.com/hjung3113/analytics-platform/issues/556)은 끝(PlatformDataTable 선택 옵션: 열 순서 저장, 열별 필터·`TableQuery`, 필터 결과 전체 선택(제외 id), 서버 행 그룹·소계 — [ADR-0104](../docs/adr/0104-table-column-filters-selection-groups.md); 열 필터 공유는 [#1217](https://github.com/hjung3113/analytics-platform/issues/1217)로 완료 — [ADR-0105](../docs/adr/0105-one-table-filter-model.md), 숨은 page 상태·현재 조건 공유·저장된 뷰. 그룹 상태 URL 공유는 구현하지 않았다). 웨이브 2 후보: [#555](https://github.com/hjung3113/analytics-platform/issues/555) 비동기 Export. 4단계 grid 경로 정리는 [백로그](backlog.md).
 2. **FeedbackOps 합류(M6) — 완료.** FeedbackOps는 제거됐고 기능은 `platform/<feature>/`에 있다(위 `v0.20.1`). 남은 열린 일: 화면 오류에서 VOC 등록 #606, 세션 공유는 사내 SSO(#150) 뒤. 실서버 공통 부분 [#593](https://github.com/hjung3113/analytics-platform/issues/593)의 #150 SSO 값 입력은 남는다.

diff --git a/site/SOURCES.md b/site/SOURCES.md
@@ -10,8 +10,8 @@
 
 | ID | 주장·숫자 | 출처 | 비고 |
 | --- | --- | --- | --- |
-| L01 | 최신 앱 릴리스 v0.15.0(2026-10-21), 최신 SDK 릴리스 `sdk-v0.12.0`(2026-10-23)와 정비 슬라이스 15의 내용 | `.planning/README.md` 「끝난 것」, GitHub Release `sdk-v0.12.0` | 릴리스 개수는 표기하지 않음. 2026-10-23에 최신 릴리스로 갱신 |
-| L02 | `@ap/components` 기본 진입점의 공개 React 컴포넌트 29개(`sdk-v0.12.0` 기준, 2026-10-23 갱신; PanelWorkspace 추가. 도킹 진입점 `@ap/components/dock`의 DockLayout·WorkspaceCommandsHost 2개는 L136): AnalysisChart, AnalysisChartFrame, EChart, PlatformDataTable, PageFilterBar, SegmentedRadio, DetailDrawer, Field, AuditTimeline, DataTrustIndicator, PlatformPage, Panel, StatCard, QueryView, OutcomeView, StateMessage, LoadingBlock, ManagementLayout, AnalysisLayout, DrillLayout, DrillPath, ReturnLink, RowAction, TableUrlWarning, FilterUrlWarning, LegendTree, LaneTimeline, QueryBarExtensionsProvider, PanelWorkspace | `tooling/sdk/api/components.root.api.txt`(`pnpm sdk:api` 스냅샷), 방법은 L136 | 2026-10-23 다시 셈(이전 28은 PanelWorkspace 전 값). `OutcomeScope`는 공개 export 아님 |
+| L01 | 최신 앱 릴리스 v0.22.0(2026-11-01), 최신 SDK 릴리스 `sdk-v0.26.0`(2026-11-01) | `.planning/README.md` 「끝난 것」, GitHub Release [`v0.22.0`](https://github.com/hjung3113/analytics-platform/releases/tag/v0.22.0)·[`sdk-v0.26.0`](https://github.com/hjung3113/analytics-platform/releases/tag/sdk-v0.26.0) | 릴리스 개수는 표기하지 않음. 2026-11-01에 최신 릴리스로 갱신(태그 발행은 이 PR 병합 직후) |
+| L02 | `@ap/components` 기본 진입점의 공개 React 컴포넌트 28개(`sdk-v0.12.0` 기준, 2026-10-23 갱신; PanelWorkspace 추가. 2026-11-01 `sdk-v0.26.0`에서 FilterUrlWarning 제거. 도킹 진입점 `@ap/components/dock`의 DockLayout·WorkspaceCommandsHost 2개는 L136): AnalysisChart, AnalysisChartFrame, EChart, PlatformDataTable, PageFilterBar, SegmentedRadio, DetailDrawer, Field, AuditTimeline, DataTrustIndicator, PlatformPage, Panel, StatCard, QueryView, OutcomeView, StateMessage, LoadingBlock, ManagementLayout, AnalysisLayout, DrillLayout, DrillPath, ReturnLink, RowAction, TableUrlWarning, LegendTree, LaneTimeline, QueryBarExtensionsProvider, PanelWorkspace | `tooling/sdk/api/components.root.api.txt`(`pnpm sdk:api` 스냅샷), 방법은 L136 | 2026-10-23 다시 셈(이전 28은 PanelWorkspace 전 값). `OutcomeScope`는 공개 export 아님 |
 | L03 | `@ap/ui`: 환경 helper isProductionEnv·isMacPlatform·shortcutLabel 포함. Button·buttonVariants, StatusBadge·Dot(Tone 5종), shadcn 13계열(Alert·Badge·Checkbox·Dialog·DropdownMenu·Input·Label·Popover·RadioGroup·Select·Skeleton·Tabs·Tooltip), DetailPanelSlot 3종, cn, prefersReducedMotion | `packages/sdk/ui/src/index.ts` | — |
 | L04 | `@ap/shell` 7개: AppShell, AppRail, AppSidebar, ScopeSelector, CommandPalette, GlobalContextBar, RouteOutlet | `packages/sdk/shell/src/index.ts` | — |
 | L05 | Kernel·contracts 공개 API(createRegistry, pathFor, PlatformProvider, usePlatform, PlatformLink, useMenuQuery, useMenuFetch, usePlatformQuery, useEntityQuery, useDrill, I18nProvider, defineEndpoint, PlatformAdapter 메서드 목록) | `packages/sdk/kernel/src/index.ts`, `packages/sdk/contracts/src/menu-query.ts`, `packages/sdk/contracts/src/adapter/adapter.ts` | `linkTo`·`can`·`canOpen`은 `usePlatform()` 반환값 |
@@ -26,7 +26,7 @@
 | L14 | AnalysisChartFrame: 확대·구간 선택·초기화·비교·주석·내보내기, Brush 로컬, 전역 기간은 확인 뒤, 주석 `(chartId, scopeId)`, 같은 데이터 표 보기. 툴바 문구 `확대`·`구간 선택`·`초기화`·`비교`·`주석`·`내보내기`·`분석 구간 적용…` | `packages/sdk/components/src/chart/AnalysisChartFrame.tsx:292-348`, 플랫폼 UI 계약 §16 | — |
 | L15 | DataTrustIndicator: 이슈·미확인·coverage·갱신 시각·원천·잠정 상태·원천 로직 버전 혼재 배지와 상세, unknown을 정상·0으로 바꾸지 않음 | 플랫폼 UI 계약 §18 | — |
 | L16 | 조회 상태 loading·empty·forbidden·too_large·timeout·error 구분, 위젯별 부분 실패 격리. 데모 DevTools 응답 시나리오 11종(정상·느린 응답·0건·상태 원천 미확인·일부 위젯 실패·권한 거부·조회 과대·시간 초과·서버 오류·응답 형식 오류·Scope 확인 실패) | `packages/sdk/components/src/StateView.tsx`, `apps/platform-web/src/dev/DevTools.tsx:14-26`, `docs/integration/in-house-rollout.md` §5-7 | — |
-| L17 | ManagementLayout: 자기 폭 960px 이상 260px 필터 열, 좁으면 팝오버. AnalysisLayout: KPI 띠·차트(960px 이상·펼친 차트 2개 이상이면 2열)·분해 표, 단위별 접기 | 플랫폼 UI 계약 §12.6, ADR-0022 | — |
+| L17 | ManagementLayout: 왼쪽 필터 칸 없이 표 툴바 한 줄(제목·검색·표 컨트롤)과 그 아래 필터 줄 하나(2026-11-01, sdk-v0.26.0, ADR-0105). AnalysisLayout: KPI 띠·차트(960px 이상·펼친 차트 2개 이상이면 2열)·분해 표, 단위별 접기 | 플랫폼 UI 계약 §12.6, ADR-0022·ADR-0105 | — |
 | L18 | 드릴 단계 공정 → StGroup → 설비, 단계마다 page key, 경로 칩, 복귀 | `menus/mars/analytics/src/index.ts:22-27`, `.planning` v0.4.0 | — |
 | L19 | Page Archetype 5종, 전용 레이아웃 컴포넌트는 Management·Analysis 2종, 나머지는 공통 부품 조립 + 생성기 뼈대 | 플랫폼 UI 계약 §12 | 06 절 각주로만 |
 | L20 | 셸 치수 시스템 레일 52px · 사이드바 240/56px · 머리 50px · 상세 슬롯 440px | 기능 화면 `tokens.css:169-174` | — |

diff --git a/.planning/backlog.md b/.planning/backlog.md
@@ -5,7 +5,6 @@
 ## 작은 후속 (확인된 것)
 
 - **구현 안 함 — 옛 필터 page key 별칭 제거(#1217 노드 f):** 설비 `status`·`maker`, 감사 7키, 권한 2키는 한 필터 모델(ADR-0105)로 옮긴 뒤에도 옛 링크가 같은 결과를 보이도록 manifest `pageKeys`에 별칭으로 남긴다(한 릴리스). 이유: 이미 공유된 링크를 바로 깨지 않는다(계획 P8). 다시 볼 조건: #1217을 싣는 릴리스의 다음 릴리스 — 별칭, 메뉴의 `legacy` 선언, 별칭 테스트·E2E를 지운다. (#419 ② 「관리 화면 필터 초기화 범위 통일」 줄은 `useManagementFilters`가 사라져 한 필터 모델로 대체되어 닫았다.)
-- **구현 안 함 — 소개 사이트의 관리 필터 레일 설명 갱신(#1217 노드 f 리뷰):** `site/SOURCES.md` L02/L17과 `site/index.html`의 관리 필터 레일(260px 레일·좁은 폭 팝오버·접힘 기억)과 `FilterUrlWarning` 언급이 아직 옛 구조다. 이유: 사이트 문구는 릴리스 문서 패스에서 새로 쓴다(`site/AGENTS.md`). 다시 여는 조건: #1217을 싣는 다음 릴리스 문서 PR — 한 필터 모델(ADR-0105)에 맞춰 문구와 출처 장부를 함께 고친다.
 - **구현 안 함 — 필터 편집기 상한 경계 테스트(#1217b 점검 C3):** 상한 거절은 테스트로 고정했지만 정확히 20개 조건·50개 값·2400자가 적용되는 경계는 고정하지 않았다. 이유: 코덱 쪽(1217a2c)이 경계를 이미 테스트하고 편집기는 같은 함수를 부른다. 다시 여는 조건: 상한 값이나 상한 함수를 바꿀 때.
 - **구현 안 함 — 돌아가기 숨은 상태 저장소 세부(#1217a2k 점검 C2–C4):** 쓰기 실패 때 해당 칸만이 아니라 저장소 전체를 지운다(C2). 실패 표식은 탭 메모리라 `setItem`·`removeItem`이 모두 실패하는 저장소에서 새로고침하면 사라진다(C3). 옛 v1 문서를 거부하는 회귀 테스트가 없다(C4). 이유: 동작은 fail closed로 안전하고 영향은 이상한 저장소에서만 생긴다. 다시 여는 조건: 반환 상태 저장소를 다시 손댈 때, 또는 저장소 오류 신고가 들어올 때.
 - **구현 안 함 — `groupPage` 혼합 타입 그룹 키 비교(#556d 리뷰 C3):** `groupPage`는 원래 값끼리 비교하지만 그룹 버킷 신원은 `String(value)`라, 한 열에 `3`과 `'3'`이 섞이면 같은 버킷인데 비교가 비대칭이다. 이유: 서버 열 하나는 한 타입이라 지금 영향이 없다. 다시 여는 조건: 혼합 타입 열로 그룹을 묶는 소비자가 생길 때.
